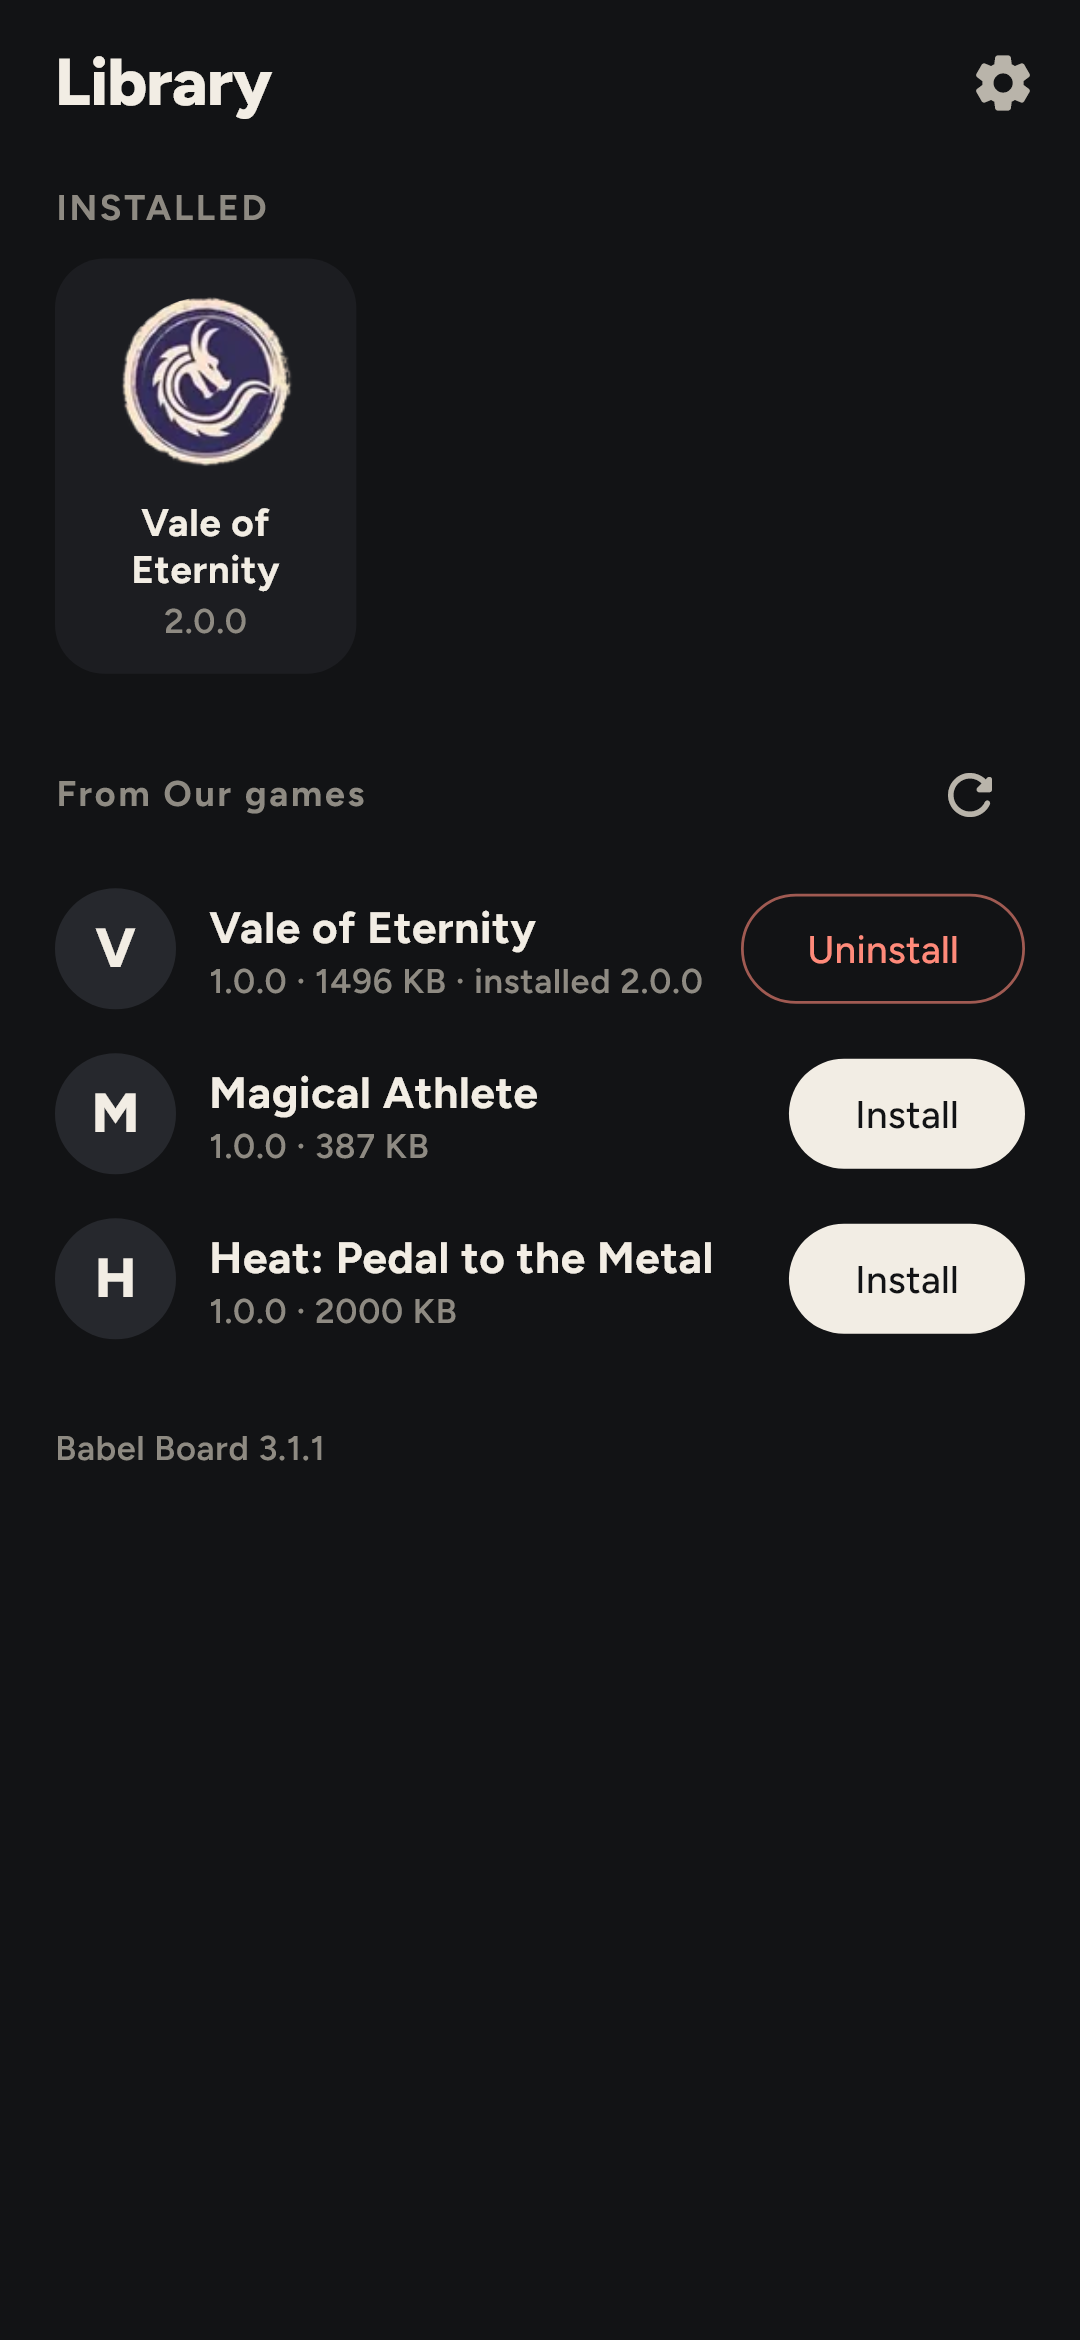
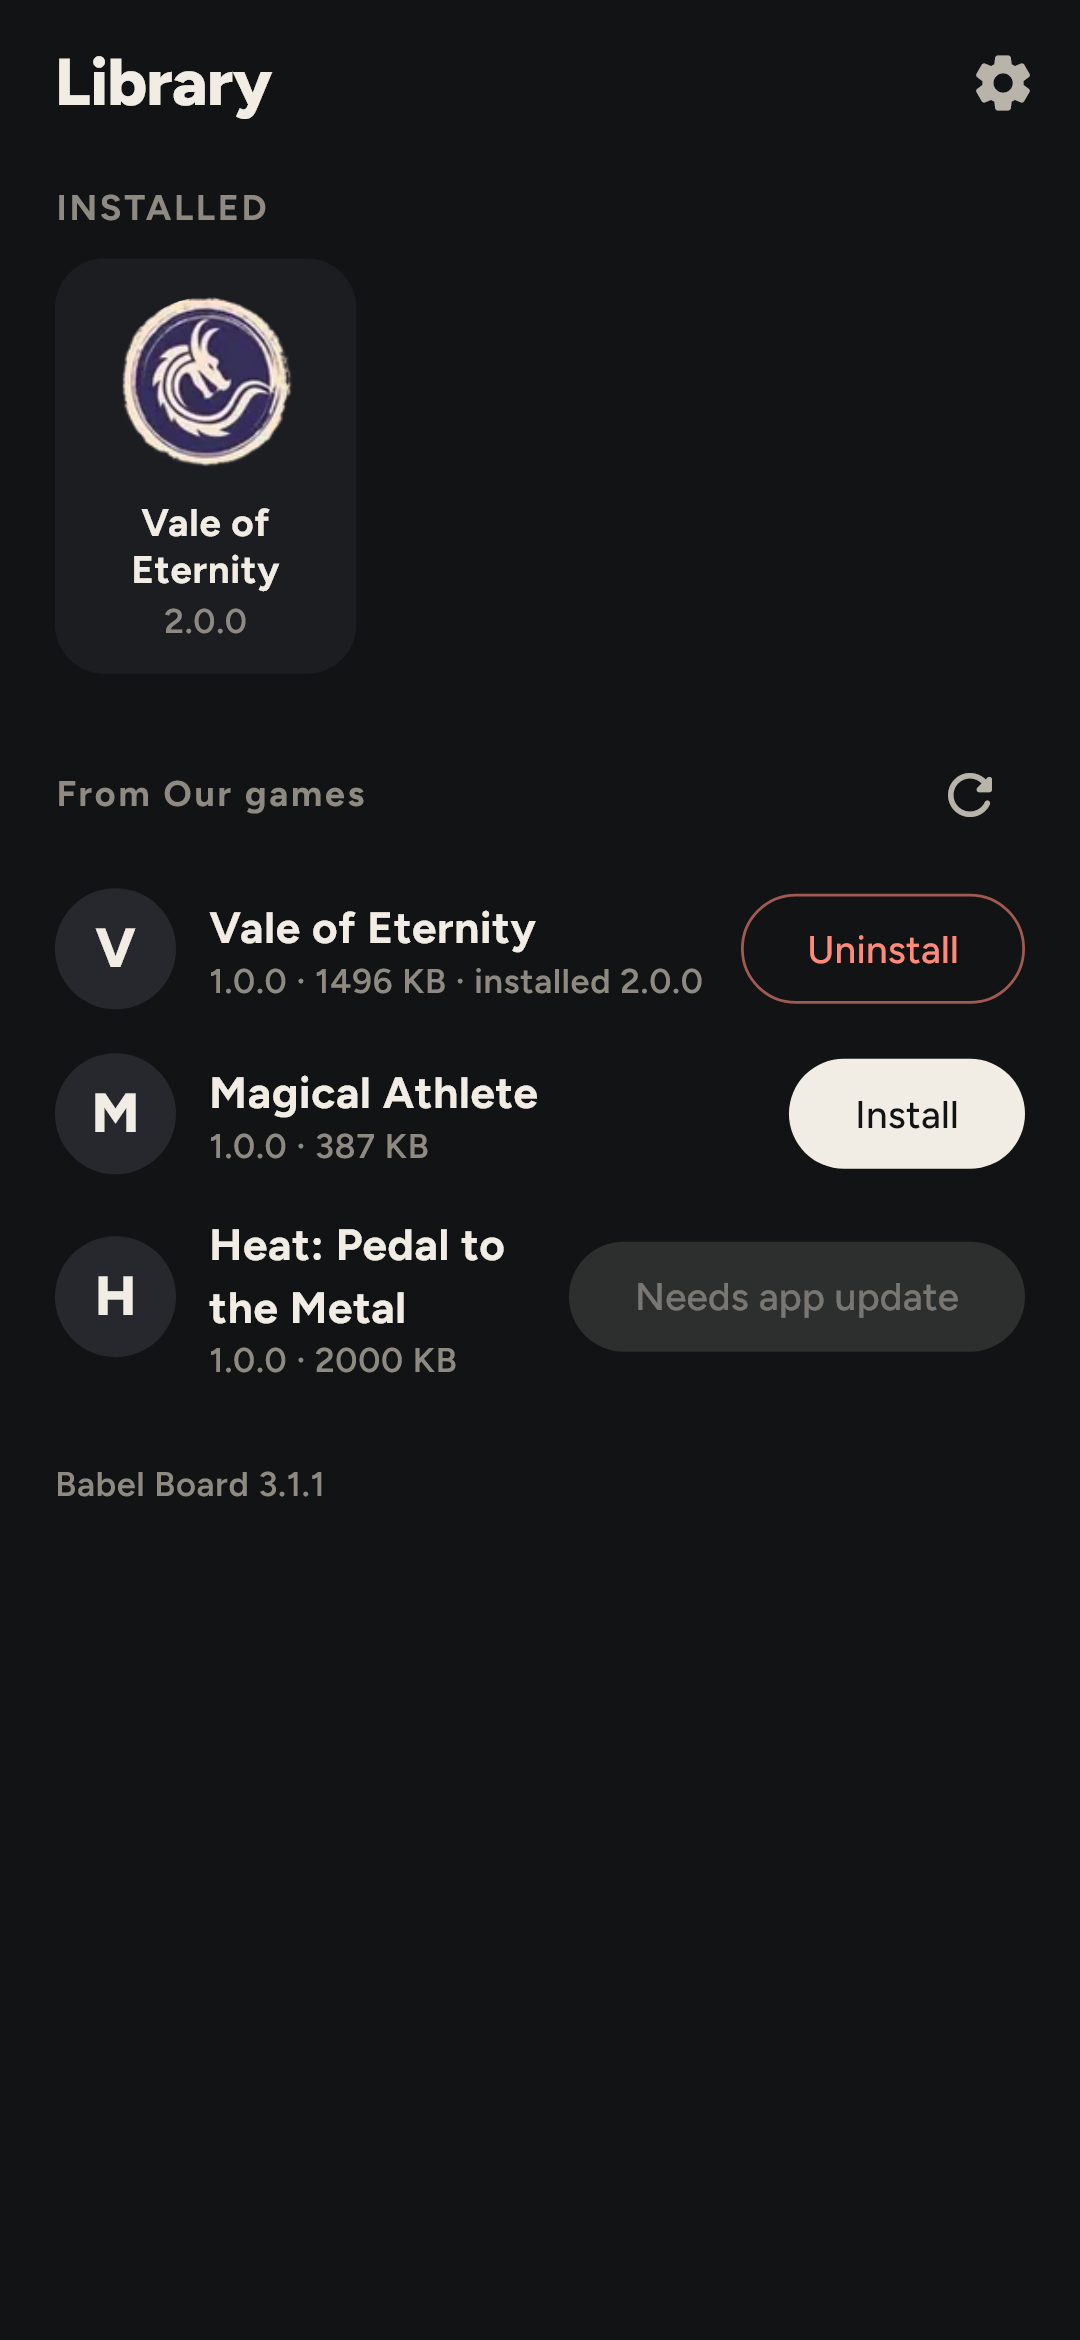
chore(screenshots): the mock repository's future game stays "Needs app update"

Changed region(s): [[0.0611, 0.4991, 0.9472, 0.6551], [0.0917, 0.5303, 0.1222, 0.5615]]

diff --git a/tool/screenshot_test.dart b/tool/screenshot_test.dart
@@ -351,7 +351,7 @@ void main() {
               'id': 'heat',
               'name': 'Heat: Pedal to the Metal',
               'version': '1.0.0',
-              'minAppVersion': '3.1.0',
+              'minAppVersion': '9.0.0',
               'zip': 'h.zip',
               'size': 2048000,
             },
